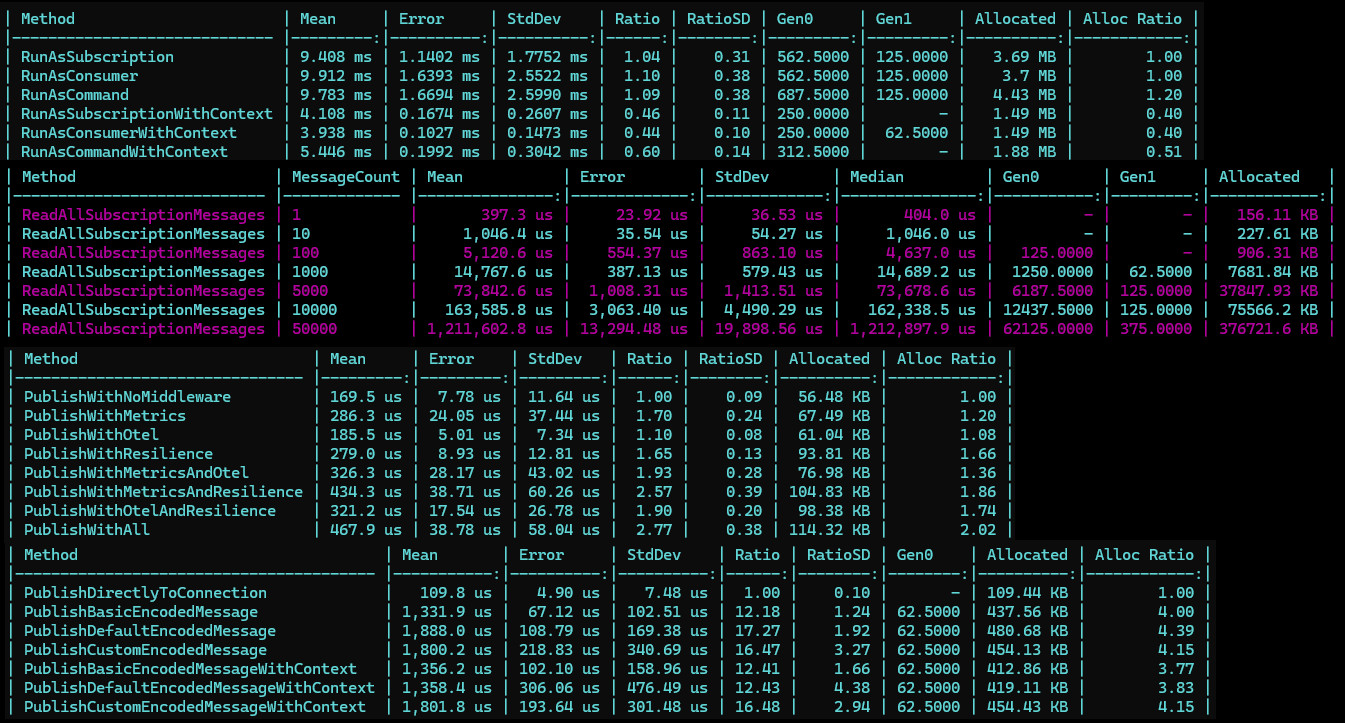
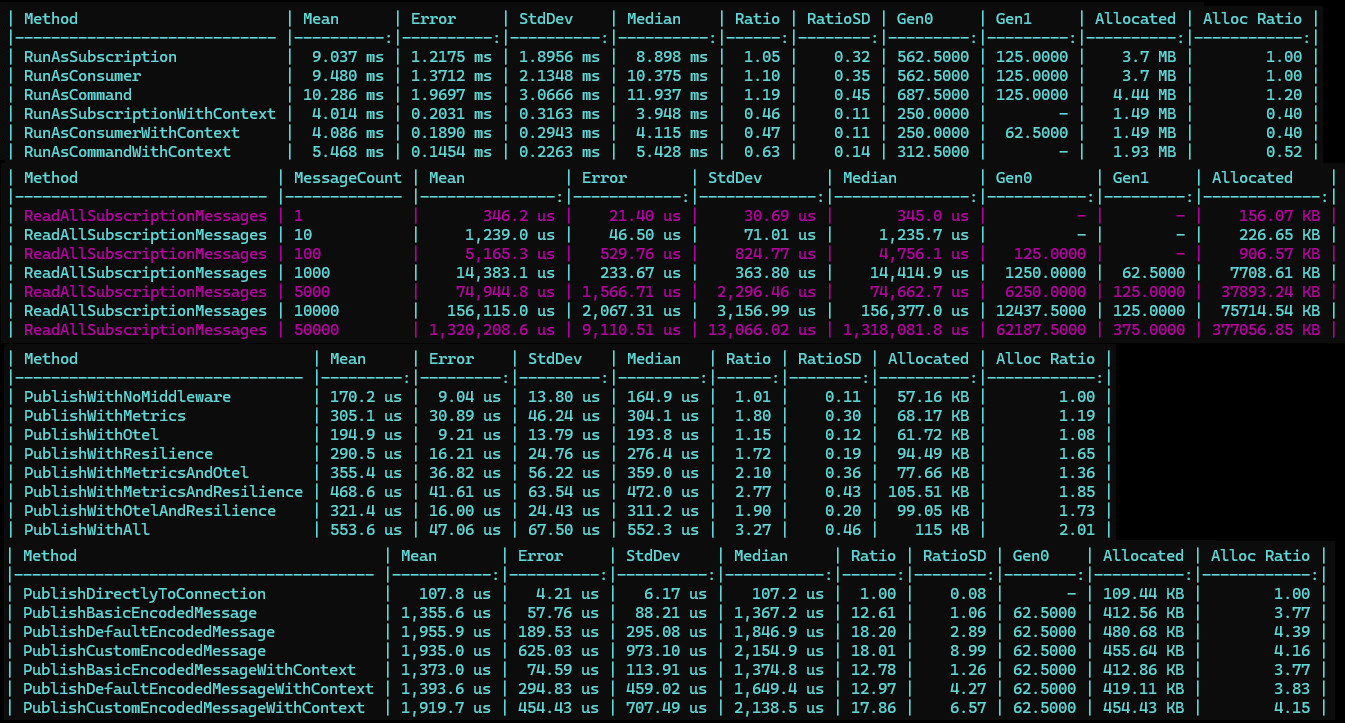
Subscription tracking (#30)
* added in close callback

added in the capability to track all underlying subscriptions from a connection to allow for proper cleanup.

* updating performance data

updating performance data and fixing missed sub tracking

Changed region(s): [[0.0, 0.0, 0.9993, 1.0], [0.2498, 0.5477, 0.281, 0.7607]]

diff --git a/Core/Connections/AConnection.cs b/Core/Connections/AConnection.cs
@@ -28,7 +28,7 @@ namespace MQContract.Connections
         private readonly ConcurrentDictionary<Guid, TaskCompletionSource<ServiceQueryResult>> inboxResponses = [];
         private readonly ConcurrentDictionary<string, IServiceSubscription> inboxSubscriptions = [];
         private readonly ConcurrentDictionary<(Type messageType, bool ignoreMessageHeader), IMessageTypeFactory> typeFactories = [];
-        private readonly ConcurrentBag<ISubscription> consumerSubscriptions = [];
+        private readonly ConcurrentDictionary<Guid,IInternalSubscription> activeSubscriptions = [];
         protected readonly ILogger Logger;
         private readonly IMessageEncoder? defaultMessageEncoder;
         private readonly IServiceProvider? serviceProvider;
@@ -268,12 +268,16 @@ namespace MQContract.Connections
                 (originalChannel) => MapChannel(ChannelMapper.MapTypes.PublishSubscription, originalChannel)!,
                 messageContext,
                 logger: Logger,
+                remove: (id) => activeSubscriptions.TryRemove(id,out _),
             channel: channel,
             group: group,
                 synchronous: synchronous);
             Logs.Lifetime.EstablishingPubSubSubscription(Logger);
             if (await subscription.EstablishSubscriptionAsync(serviceConnection, cancellationToken))
+            {
+                activeSubscriptions.TryAdd(subscription.ID, subscription);
                 return subscription;
+            }
             Logs.Lifetime.PubSubSubscriptionEstablishmentFailed(Logger);
             throw new SubscriptionFailedException();
         }
@@ -668,12 +672,16 @@ namespace MQContract.Connections
                 (originalChannel) => MapChannel(ChannelMapper.MapTypes.QuerySubscription, originalChannel),
                 messageContext,
                 logger: Logger,
-            channel: channel,
-            group: group,
+                remove: (id) => activeSubscriptions.TryRemove(id, out _),
+                channel: channel,
+                group: group,
                 synchronous: synchronous);
             Logs.Lifetime.EstablishingSubscription(Logger);
             if (await subscription.EstablishSubscriptionAsync(serviceConnection, serviceConnectionName, cancellationToken))
+            {
+                activeSubscriptions.TryAdd(subscription.ID, subscription);
                 return subscription;
+            }
             Logs.Lifetime.EstablishingSubscriptionFailed(Logger);
             throw new SubscriptionFailedException();
         }
@@ -687,8 +695,8 @@ namespace MQContract.Connections
             Logs.Lifetime.ClosingAllInboxes(Logger);
             await Task.WhenAll([
                 .. inboxSubscriptions.Values.Select(sub => sub.EndAsync().AsTask()),
-                .. consumerSubscriptions.Select(sub=>sub.EndAsync().AsTask())
-            ]);
+                .. activeSubscriptions.Values.Select(sub=>sub.EndAsyncWithoutRemoval().AsTask())
+            ]).ConfigureAwait(true);
             await CloseAsync();
         }
         protected abstract ValueTask InternalDisposeAsync();
@@ -705,11 +713,11 @@ namespace MQContract.Connections
                         else if (sub is IDisposable disposable)
                             disposable.Dispose();
                     }),
-                    .. consumerSubscriptions.Select(async(sub)=>{
+                    .. activeSubscriptions.Values.Select(async(sub)=>{
                         await sub.DisposeAsync();
                     })
                 ]);
-                consumerSubscriptions.Clear();
+                activeSubscriptions.Clear();
                 inboxSubscriptions.Clear();
                 await InternalDisposeAsync();
             }

diff --git a/Connectors/Kafka/Subscriptions/PublishSubscription.cs b/Connectors/Kafka/Subscriptions/PublishSubscription.cs
@@ -4,14 +4,15 @@ using MQContract.Messages;
 namespace MQContract.Kafka.Subscriptions
 {
     internal class PublishSubscription(Confluent.Kafka.IConsumer<string, byte[]> consumer, Func<ReceivedServiceMessage, ValueTask> messageReceived, Action<Exception> errorReceived, string channel)
-        : IServiceSubscription
+        : IServiceSubscription, IAsyncDisposable
     {
         private bool disposedValue;
         protected readonly CancellationTokenSource cancelToken = new();
+        private Task? consumerLoop;
 
         public void Start()
         {
-            Task.Run(async () =>
+            consumerLoop = Task.Run(async () =>
             {
                 while (!cancelToken.IsCancellationRequested)
                 {
@@ -40,34 +41,15 @@ namespace MQContract.Kafka.Subscriptions
                     {
                         //dropped this exception as it can occur when the consumption is stopped
                     }
+                    catch (AccessViolationException)
+                    {
+                        //dropped this exception as it can occur when the consumption is stopped
+                    }
                     catch (Exception ex)
                     {
                         errorReceived(ex);
                     }
                 }
-                consumer.Close();
-            });
-        }
-
-        public async ValueTask EndAsync()
-        {
-            try
-            {
-                await cancelToken.CancelAsync();
-            }
-            catch
-            {
-                //ignoring the error as the goal is to call cancel and not care about the error
-            }
-        }
-
-        public async ValueTask DisposeAsync()
-        {
-            if (!disposedValue)
-            {
-                disposedValue=true;
-                if (!cancelToken.IsCancellationRequested)
-                    await cancelToken.CancelAsync();
                 try
                 {
                     consumer.Close();
@@ -75,6 +57,26 @@ namespace MQContract.Kafka.Subscriptions
                 catch
                 {
                     //ignoring error here as we are attempting to dispose the resource
+                }
+            });
+        }
+
+        public async ValueTask EndAsync()
+            => await DisposeAsync();
+
+        public async ValueTask DisposeAsync()
+        {
+            if (!disposedValue)
+            {
+                disposedValue=true;
+                if (!cancelToken.IsCancellationRequested)
+                {
+                    cancelToken.Cancel();
+                    try
+                    {
+                        await consumerLoop!.ConfigureAwait(false);
+                    }
+                    catch (OperationCanceledException) { }
                 }
                 consumer.Dispose();
                 cancelToken.Dispose();

diff --git a/Connectors/Kafka/Connection.cs b/Connectors/Kafka/Connection.cs
@@ -43,7 +43,9 @@ namespace MQContract.Kafka
                 CompressionType = CompressionType.Lz4,
 
                 // Ordering / Parallelism
-                MaxInFlight = 5
+                MaxInFlight = 5,
+                MessageTimeoutMs = 10000,    
+                SocketTimeoutMs = 10000
             };
             producer = new ProducerBuilder<string, byte[]>(produceConfig)
                 .Build();
@@ -144,7 +146,9 @@ namespace MQContract.Kafka
                 MaxPartitionFetchBytes = clientConfig.MessageMaxBytes ?? (1024 * 1024), // limit per-partition fetch size
                 QueuedMinMessages = 1,          // start delivering to the application with fewer queued messages
                 AutoCommitIntervalMs = 1000,    // commit offsets to broker more frequently (still relying on StoreOffset)
-                SocketKeepaliveEnable = true
+                SocketKeepaliveEnable = true,
+                SessionTimeoutMs = 6000,
+                HeartbeatIntervalMs = 2000
             });
             if (isReply)
                 builder.SetPartitionsAssignedHandler((c, partitions) =>
@@ -187,6 +191,7 @@ namespace MQContract.Kafka
             {
                 disposedValue=true;
                 await batchedMessageStream.DisposeAsync().ConfigureAwait(true);
+                producer.Flush(TimeSpan.FromSeconds(3));
                 producer.Dispose();
             }
             GC.SuppressFinalize(this);

diff --git a/Core/Subscriptions/SubscriptionBase.cs b/Core/Subscriptions/SubscriptionBase.cs
@@ -6,7 +6,14 @@ using System.Diagnostics.CodeAnalysis;
 
 namespace MQContract.Subscriptions
 {
-    internal abstract class SubscriptionBase<TMessage>(Func<string, ValueTask<string>> mapChannel, MessageContext context, string? channel, bool synchronous, ILogger logger) : ISubscription
+    internal abstract class SubscriptionBase<TMessage>(
+        Func<string, ValueTask<string>> mapChannel, 
+        MessageContext context, 
+        string? channel, 
+        bool synchronous, 
+        ILogger logger,
+        Action<Guid> remove) 
+        : IInternalSubscription
     {
         protected IServiceSubscription? serviceSubscription;
         private bool disposedValue;
@@ -22,7 +29,12 @@ namespace MQContract.Subscriptions
         protected virtual void InternalDispose()
         { }
 
-        public async ValueTask EndAsync()
+        ValueTask ISubscription.EndAsync()
+            => EndAsync(true);
+        ValueTask IInternalSubscription.EndAsyncWithoutRemoval()
+            => EndAsync(false);
+
+        private async ValueTask EndAsync(bool callRemove)
         {
             if (serviceSubscription!=null)
             {
@@ -30,6 +42,8 @@ namespace MQContract.Subscriptions
                 await serviceSubscription.EndAsync();
                 serviceSubscription=null;
             }
+            if (callRemove)
+                remove(ID);
         }
 
         protected virtual void Dispose(bool disposing)

diff --git a/Core/Subscriptions/PubSubSubscription.cs b/Core/Subscriptions/PubSubSubscription.cs
@@ -7,8 +7,8 @@ namespace MQContract.Subscriptions
 {
     internal sealed class PubSubSubscription<TMessage>(Func<ReceivedServiceMessage, ValueTask<bool>> messageReceived, Action<Exception> errorReceived,
         Func<string, ValueTask<string>> mapChannel, MessageContext context,
-        ILogger logger, string? channel = null, string? group = null, bool synchronous = false)
-        : SubscriptionBase<TMessage>(mapChannel, context, channel, synchronous, logger)
+        ILogger logger, Action<Guid> remove, string? channel = null, string? group = null, bool synchronous = false)
+        : SubscriptionBase<TMessage>(mapChannel, context, channel, synchronous, logger, remove)
     {
         public async ValueTask<bool> EstablishSubscriptionAsync(IMessageServiceConnection connection, CancellationToken cancellationToken)
         {

diff --git a/Core/Subscriptions/QueryResponseSubscription.cs b/Core/Subscriptions/QueryResponseSubscription.cs
@@ -13,9 +13,9 @@ namespace MQContract.Subscriptions
         Action<Exception> errorReceived,
         Func<string, ValueTask<string>> mapChannel,
         MessageContext context,
-        ILogger logger, string? channel = null,
+        ILogger logger, Action<Guid> remove, string? channel = null,
         string? group = null, bool synchronous = false)
-        : SubscriptionBase<TMessage>(mapChannel, context, channel, synchronous, logger)
+        : SubscriptionBase<TMessage>(mapChannel, context, channel, synchronous, logger, remove)
     {
         private ManualResetEventSlim? manualResetEvent = new(true);
         private CancellationTokenSource? token = new();

diff --git a/Samples/Messages/SampleExecution.cs b/Samples/Messages/SampleExecution.cs
@@ -75,6 +75,7 @@ namespace Messages
                     storedArrivalSubscription.EndAsync().AsTask()
                 ).ConfigureAwait(true);
                 await contractConnection.CloseAsync().ConfigureAwait(true);
+                Console.WriteLine("Connection closed, system exiting.");
             }, true);
 
             Console.WriteLine("Awaiting 5 seconds to ensure that all subscriptions are established fully.");

diff --git a/Core/Connections/AConnection.Consumers.cs b/Core/Connections/AConnection.Consumers.cs
@@ -36,7 +36,6 @@ namespace MQContract.Connections
                 Logs.Lifetime.ConsumerRegistrationFailed(Logger, err, consumerName, consumerType);
                 throw new ConsumerRegistrationFailedException(consumerName, consumerType, err);
             }
-            consumerSubscriptions.Add(subscription);
             return (TContractConnection)(IBaseContractConnection)this;
         }
 

diff --git a/Core/Interfaces/IInternalSubscription.cs b/Core/Interfaces/IInternalSubscription.cs
@@ -1,0 +1,8 @@
+namespace MQContract.Interfaces
+{
+    internal interface IInternalSubscription : ISubscription
+    {
+        Guid ID { get; }
+        ValueTask EndAsyncWithoutRemoval();
+    }
+}
